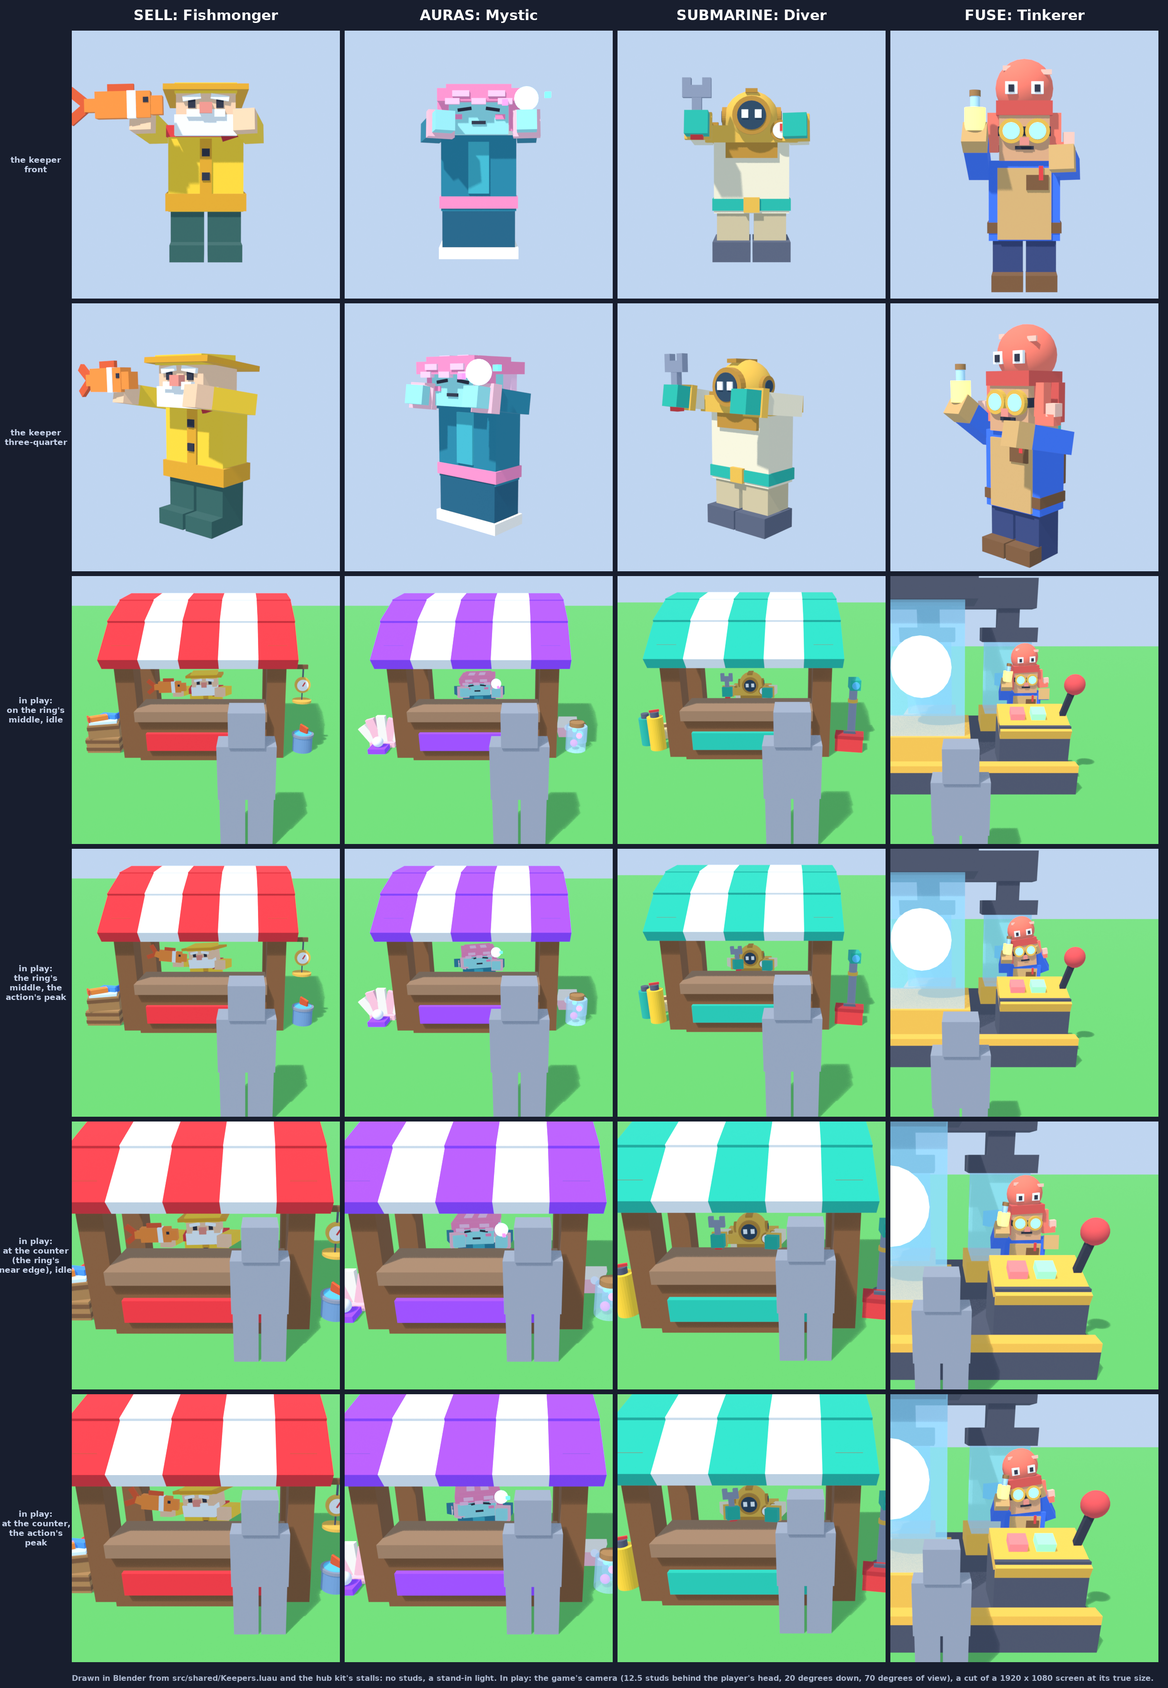
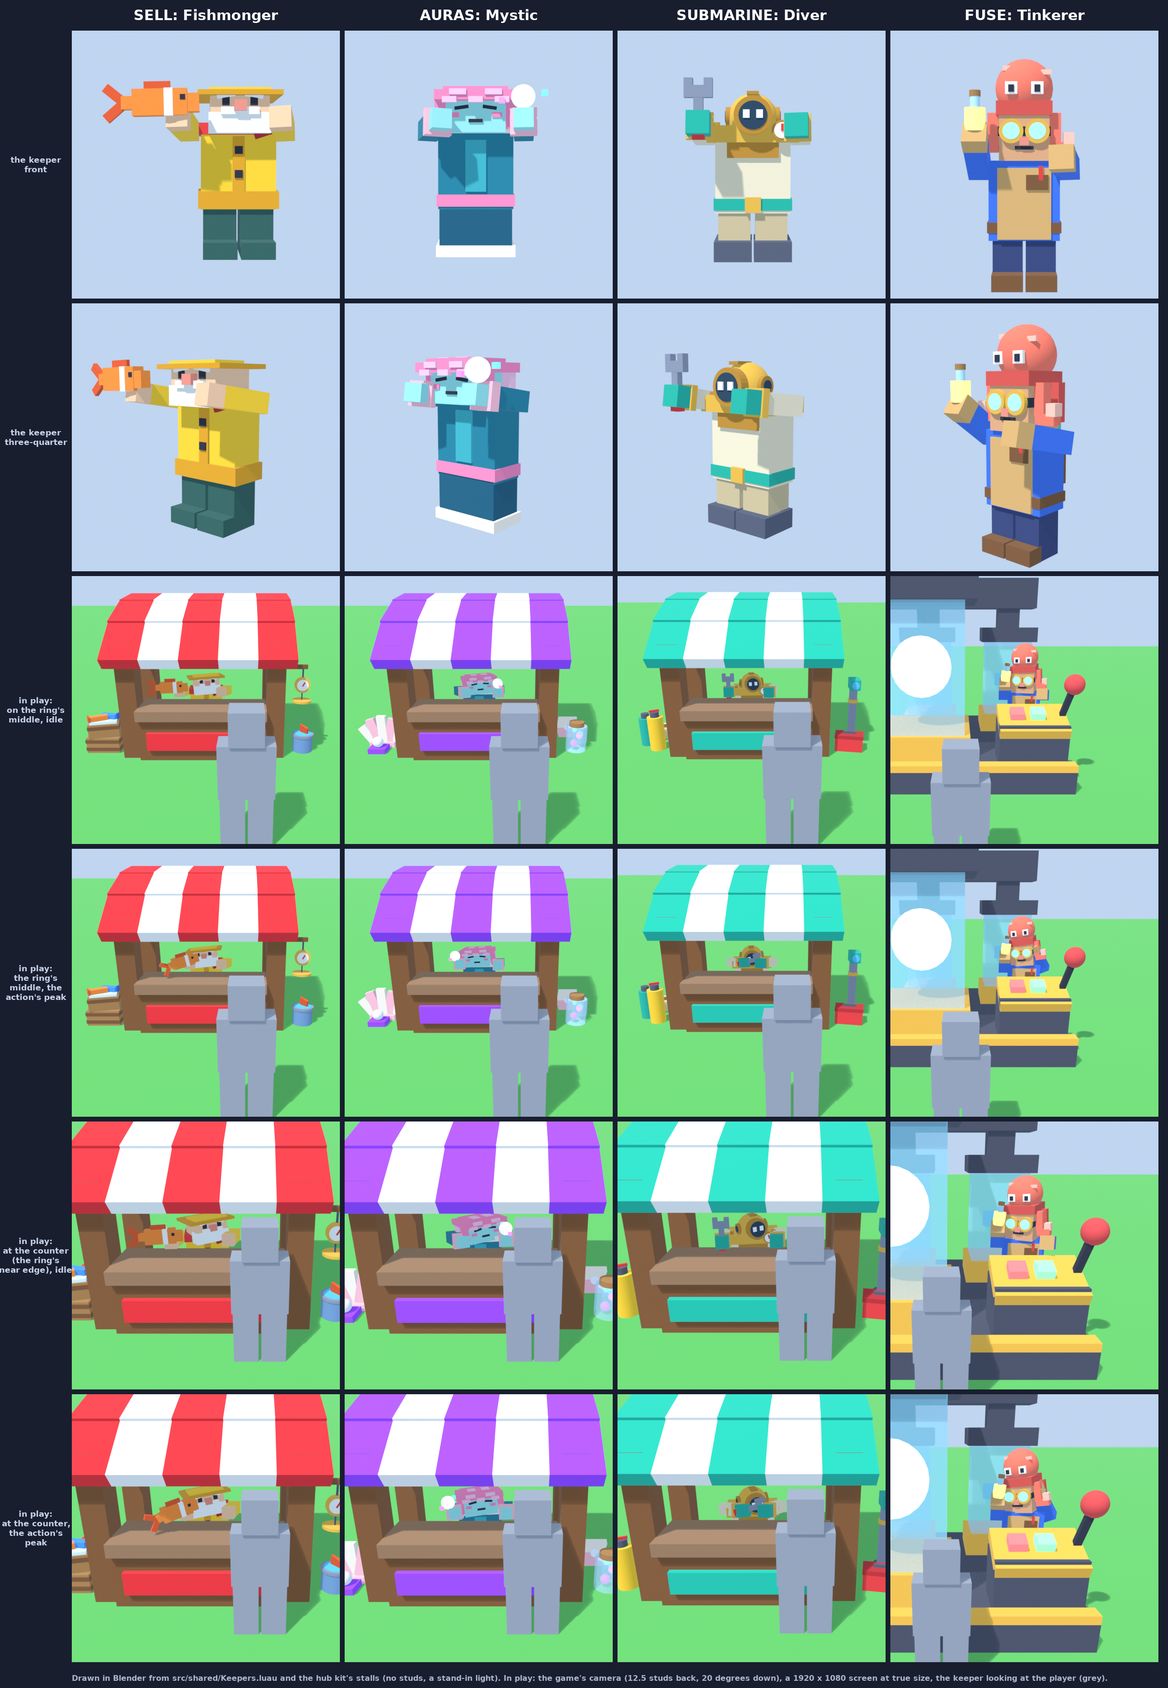
Keepers: sightline held with the keeper looking at the player, actions that show on the screen, flatter hats
- check.py: the sightline is tried with the keeper looking ahead and looking at the player (on the ring's middle
  line and a step to each side), at every key of every action track and half way between; and each action has to
  carry something 30 px or more on a 1920 x 1080 screen from the ring's middle (now 40, 106, 81, 58).
- The actions go sideways and forward instead of up: the fishmonger holds the thrashing catch out over the
  counter, the mystic's pearl floats from one hand to the other and back, the diver slaps the wrench into his palm.
- Hats flatter and the diver's helmet smaller; Look.Up 6 (a hat that tips back goes behind the awning's lip),
  Look.Near 22 / Far 27 (the Fuse ring's far corner was out of reach).
- sheet.py: the in-play rows show the keeper looking at the player and each action at its own peak; the front
  view is centred on the whole keeper so the catch is in the picture.

diff --git a/tools/keepers/check.py b/tools/keepers/check.py
@@ -23,6 +23,7 @@ import keepers as K  # noqa: E402
 
 DEEP = 0.06  # studs two boxes may sink into each other before it counts (a hand on a counter, a jar on a base)
 RING_CLEAR = 1.0  # studs kept free round the ring's edge
+SHOWS = 30  # pixels of a 1920 x 1080 screen an action has to carry something, seen from the ring's middle
 SHIFT = {"Fuse": (-19.4, 0.0, 11.8)}
 
 
@@ -95,7 +96,7 @@ def main():
     look = data["Look"]
     hub = json.load(open(K.HUB))
     hub_in = json.load(open(os.path.join(os.path.dirname(K.HUB), "hub_in.json")))
-    faults, total = [], 0
+    faults, total, seen = [], 0, {}
     for k in data["List"]:
         parts = K.station(k["Station"], hub, SHIFT.get(k["Station"], (0.0, 0.0, 0.0)))
         space, scale = K.stand_space(parts, k["Stand"], look)
@@ -135,32 +136,49 @@ def main():
         for (name, tag), (deep, which) in sorted(worst.items()):
             faults.append(f"{k['Id']}: {which} is {deep:.2f} into the stand's {name} ({tag})")
         # what a player sees: nothing of the head, the hat, the arms or what is held is cut off by the stand (the
-        # awning's lip, a post), at the top of the bob and through the action. From the ring's middle and its far
-        # edge every point of them; from its edge nearest the counter, where the camera looks steepest under the
-        # awning, the half of each part that faces the player. A point the keeper's own parts hide is not counted
+        # awning's lip, a post), at the top of the bob and at every moment of the action worth looking at. The
+        # keeper is tried looking straight ahead (it has not turned yet) and looking at the player whose camera it
+        # is (head turned and tipped up at them: at the counter that is near the most it tips), with the player on
+        # the ring's middle line and a step to each side of it. From the ring's middle and its far edge every point
+        # counts; from its edge nearest the counter, where the camera looks steepest under the awning, the half of
+        # each part that faces the player. A point the keeper's own parts hide is not counted
         if k["Stand"] == "CounterTop":
-            solids = K.solids_of(parts)
+            solids = [s for s in K.solids_of(parts) if s[0] not in ("Counter", "CounterTop")]
             cut = {}
             for where, name in ((0, "the ring's middle"), (1, "the ring's far edge"), (-1, "the ring's near edge")):
-                eye, _at = K.play_camera(space, parts, where)
-                for t in (None, 0.2, 0.3, 0.4, 0.5, 0.6, 0.7, 0.8):
-                    how = {"sway_t": k["Bob"][1] / 4}
-                    if t is not None:
-                        how["action_t"] = t
-                    boxes = K.keeper_boxes(data, k, kspace, scale, **how)
-                    own = [(str(i), b["m"], body(b)[1]) for i, b in enumerate(boxes)]
-                    for i, b in enumerate(boxes):
-                        row = k["Parts"][i]
-                        if row[0] in ("Root", "Body"):
+                for side in (0.0, K.ASIDE, -K.ASIDE):
+                    eye, at = K.play_camera(space, parts, where, side)
+                    yaw, pitch = K.look_at(k, kspace, scale, look, at)
+                    for turned, held in (("looking at the player", {"yaw": yaw, "pitch": pitch}), ("looking ahead", {})):
+                        if not held and side:
                             continue
-                        rest_of = own[:i] + own[i + 1:]
-                        for spot in spots(b, eye, where == -1):
-                            by = K.hidden_by(eye, spot, solids)
-                            if by and by != "Counter" and by != "CounterTop" and not K.hidden_by(eye, spot, rest_of):
-                                cut[(i, name)] = (by, "idle" if t is None else f"action {t:.1f}", row)
+                        for t in [None] + K.action_times(k):
+                            how = dict(held, sway_t=k["Bob"][1] / 4)
+                            if t is not None:
+                                how["action_t"] = t
+                            boxes = K.keeper_boxes(data, k, kspace, scale, **how)
+                            own = [(str(i), b["m"], body(b)[1]) for i, b in enumerate(boxes)]
+                            for i, b in enumerate(boxes):
+                                row = k["Parts"][i]
+                                if row[0] in ("Root", "Body"):
+                                    continue
+                                for spot in spots(b, eye, where == -1):
+                                    by = K.hidden_by(eye, spot, solids)
+                                    if by and not K.hidden_by(eye, spot, own[:i] + own[i + 1:]):
+                                        when = "idle" if t is None else f"action {t:.2f}"
+                                        cut.setdefault((i, name), (by, f"{when}, {turned}, side {side:+.2f}", row))
             for (i, name), (by, when, row) in sorted(cut.items()):
                 faults.append(f"{k['Id']}: part {i + 1} ({row[0]} {row[1]} {row[11]}) is cut off by the stand's {by} "
                               f"from {name} ({when})")
+        # the action has to show: seen from the ring's middle by a player a step to the side, with the keeper looking
+        # at them, it carries something at least SHOWS pixels of a 1920 x 1080 screen, and twice as far as the bob
+        eye, at = K.play_camera(space, parts, 0, K.ASIDE)
+        yaw, pitch = K.look_at(k, kspace, scale, look, at)
+        bob, far, when, joint = K.shows(data, k, kspace, scale, eye, at, yaw=yaw, pitch=pitch)
+        seen[k["Id"]] = f"bob {bob:.0f} px, action {far:.0f} px (the {joint} at {when:.2f})"
+        if far < SHOWS or far < 2 * bob:
+            faults.append(f"{k['Id']}: its action carries nothing further than {far:.0f} px on the screen from the ring's "
+                          f"middle (the bob is {bob:.0f}, at least {max(SHOWS, 2 * bob):.0f} wanted)")
         props = K.prop_boxes(data, k, space, scale)
         rest = K.keeper_boxes(data, k, kspace, scale)
         top = floor
@@ -206,6 +224,9 @@ def main():
         print(f"{k['Id']:<11}{k['Station']:<6} scale {scale:.2f}  feet {lift:.2f} over the floor  keeper {len(k['Parts'])} parts "
               f"({moving} move), top {ktop - floor:.2f}  props {len(k['Props'])}, top {top - floor:.2f}  "
               f"neon {glow}, see-through {see}, lights {lit}, stud pictures {stud}")
+    print("on the screen, from the ring's middle:")
+    for name, line in seen.items():
+        print(f"  {name:<11}{line}")
     print(f"all four: {total} parts")
     for f in faults:
         print("  !", f)

diff --git a/tools/keepers/sheet.py b/tools/keepers/sheet.py
@@ -50,27 +50,6 @@ def shot(scene, name, eye, at, fov, w=SIZE, h=SIZE):
     return {"scene": scene, "eye": eye, "at": at, "fov": fov, "w": w, "h": h, "out": os.path.join(WORK, name + ".png")}
 
 
-SCREEN = (1920, 1080)
-SIDE = 0.42  # how far to one side of the ring's middle line the player stands in the play views (a share of its half)
-PEAK = 0.5  # the moment of the action the play views show
-
-
-def on_screen(eye, at, spot):
-    """where `spot` is on the screen of a camera at `eye` looking at `at`: pixels from its top left"""
-    f = [at[i] - eye[i] for i in range(3)]
-    n = sum(v * v for v in f) ** 0.5
-    f = [v / n for v in f]
-    r = K.cross(f, [0.0, 1.0, 0.0])
-    n = sum(v * v for v in r) ** 0.5
-    r = [v / n for v in r]
-    u = K.cross(r, f)
-    d = [spot[i] - eye[i] for i in range(3)]
-    deep = sum(d[i] * f[i] for i in range(3))
-    focal = SCREEN[1] / 2 / math.tan(math.radians(K.CAMERA["fov"]) / 2)
-    return (SCREEN[0] / 2 + focal * sum(d[i] * r[i] for i in range(3)) / deep,
-            SCREEN[1] / 2 - focal * sum(d[i] * u[i] for i in range(3)) / deep)
-
-
 def player(space, parts, where, side):
     """a plain grey figure where the player stands (two legs, a body, a head: 5 studs), facing the stand"""
     _eye, at = K.play_camera(space, parts, where, side)
@@ -127,21 +106,30 @@ def main():
         scenes[kid + "Stand"] = {"boxes": alone + K.prop_boxes(data, k, space, scale) + K.station_boxes(parts), "ground": GRASS, "floor": floor}
         if not poses:
             tall = max(c[1] for b in alone for c in K.corners(b["m"], b["size"])) - kspace[1][3]
-            back = max(1.0, tall / 5.9)  # a taller keeper is seen from further off, so its hat is in the picture
-            shots.append(shot(kid, kid + "_front", kat([0, tall / 2 + 0.4, 11.5 * back]), kat([0, tall / 2 + 0.2, 0]), 34))
-            shots.append(shot(kid, kid + "_three", kat([7.2 * back, tall / 2 + 1.7, 8.6 * back]), kat([0, tall / 2 + 0.1, 0]), 34))
+            across = [sum((c[i] - kspace[i][3]) * kspace[i][0] for i in range(3)) for b in alone for c in K.corners(b["m"], b["size"])]
+            mid, wide = (max(across) + min(across)) / 2, (max(across) - min(across)) / 2
+            # a taller or a wider keeper is seen from further off, and the view is centred on all of it, so its hat
+            # and what it holds are in the picture
+            back = max(1.0, tall / 5.9, (wide + 0.5) / 3.0)
+            shots.append(shot(kid, kid + "_front", kat([mid, tall / 2 + 0.4, 11.5 * back]), kat([mid, tall / 2 + 0.2, 0]), 34))
+            shots.append(shot(kid, kid + "_three", kat([7.2 * back, tall / 2 + 1.7, 8.6 * back]), kat([mid / 2, tall / 2 + 0.1, 0]), 34))
             # as a player sees it: the play camera itself (keepers.py: CAMERA), a whole 1920 x 1080 screen of which the
             # sheet shows the cut round the keeper at its true size. The player (the grey figure) stands a step to
-            # one side of the ring's middle line, as their own character would otherwise cover the keeper
+            # one side of the ring's middle line, as their own character would otherwise cover the keeper, and the
+            # keeper is looking at them, as it does in play. The action is shown at the moment it carries something
+            # furthest on the screen
             head = K.point(kspace, [0, K.read_pivot(k, "Head")[1] * scale + 0.3, 0.3])
             for where, wtag in ((0, "mid"), (-1, "near")):
-                eye, at = K.play_camera(space, parts, where, SIDE)
-                for how, htag in (({"sway_t": k["Bob"][1] / 4}, "idle"), ({"sway_t": k["Bob"][1] / 4, "action_t": PEAK}, "act")):
+                eye, at = K.play_camera(space, parts, where, K.ASIDE)
+                yaw, pitch = K.look_at(k, kspace, scale, look, at)
+                held = {"yaw": yaw, "pitch": pitch, "sway_t": k["Bob"][1] / 4}
+                peak = K.shows(data, k, kspace, scale, eye, at, yaw=yaw, pitch=pitch)[2]
+                for how, htag in ((held, "idle"), (dict(held, action_t=peak), "act")):
                     name = f"{kid}_{wtag}_{htag}"
                     scenes[name] = {"boxes": K.keeper_boxes(data, k, kspace, scale, **how) + K.prop_boxes(data, k, space, scale)
-                                    + K.station_boxes(parts) + player(space, parts, where, SIDE), "ground": GRASS, "floor": floor}
-                    shots.append(shot(name, name, eye, at, K.CAMERA["fov"], SCREEN[0], SCREEN[1]))
-                    cuts[name] = on_screen(eye, at, head)
+                                    + K.station_boxes(parts) + player(space, parts, where, K.ASIDE), "ground": GRASS, "floor": floor}
+                    shots.append(shot(name, name, eye, at, K.CAMERA["fov"], K.SCREEN[0], K.SCREEN[1]))
+                    cuts[name] = K.on_screen(eye, at, head)
             for r, tag in enumerate(("_front", "_three", "_mid_idle", "_mid_act", "_near_idle", "_near_act")):
                 rows[r].append(kid + tag)
         else:
@@ -157,8 +145,8 @@ def main():
     for name, (px, py) in cuts.items():  # the cut round the keeper, at the screen's own size
         path = os.path.join(WORK, name + ".png")
         screen = Image.open(path)
-        left = min(max(0, int(px - SIZE / 2)), SCREEN[0] - SIZE)
-        top = min(max(0, int(py - SIZE * 0.42)), SCREEN[1] - SIZE)
+        left = min(max(0, int(px - SIZE / 2)), K.SCREEN[0] - SIZE)
+        top = min(max(0, int(py - SIZE * 0.42)), K.SCREEN[1] - SIZE)
         screen.crop((left, top, left + SIZE, top + SIZE)).save(path)
     titles = [NAMES[k["Station"]] + ": " + k["Id"] for k in keepers]
     if poses:
@@ -169,8 +157,8 @@ def main():
                            "in play:\nthe ring's\nmiddle, the\naction's peak", "in play:\nat the counter\n(the ring's\nnear edge), idle",
                            "in play:\nat the counter,\nthe action's\npeak"],
             OUT if not only else os.path.join(WORK, "try.png"),
-            "Drawn in Blender from src/shared/Keepers.luau and the hub kit's stalls: no studs, a stand-in light. In play: the game's camera "
-            "(12.5 studs behind the player's head, 20 degrees down, 70 degrees of view), a cut of a 1920 x 1080 screen at its true size.")
+            "Drawn in Blender from src/shared/Keepers.luau and the hub kit's stalls (no studs, a stand-in light). In play: the game's "
+            "camera (12.5 studs back, 20 degrees down), a 1920 x 1080 screen at true size, the keeper looking at the player (grey).")
 
 
 if __name__ == "__main__":

diff --git a/tools/keepers/keepers.py b/tools/keepers/keepers.py
@@ -313,6 +313,77 @@ def play_camera(space, parts, where, side=0.0):
     return point(space, eye), point(space, at)
 
 
+SCREEN = (1920, 1080)  # the screen the play views are drawn and measured on
+ASIDE = 0.42  # where the player stands in the play views: this share of the ring's half to one side of its middle line
+# (from dead ahead their own character covers the keeper)
+
+
+def on_screen(eye, at, spot):
+    """where `spot` is on the screen of a camera at `eye` looking at `at`: pixels from its top left"""
+    f = [at[i] - eye[i] for i in range(3)]
+    n = sum(v * v for v in f) ** 0.5
+    f = [v / n for v in f]
+    r = cross(f, [0.0, 1.0, 0.0])
+    n = sum(v * v for v in r) ** 0.5
+    r = [v / n for v in r]
+    u = cross(r, f)
+    d = [spot[i] - eye[i] for i in range(3)]
+    deep = sum(d[i] * f[i] for i in range(3))
+    focal = SCREEN[1] / 2 / math.tan(math.radians(CAMERA["fov"]) / 2)
+    return (SCREEN[0] / 2 + focal * sum(d[i] * r[i] for i in range(3)) / deep,
+            SCREEN[1] / 2 - focal * sum(d[i] * u[i] for i in range(3)) / deep)
+
+
+def look_at(keeper, kspace, scale, look, spot):
+    """the look a keeper gives a player whose head is at `spot` (the world), as KeeperController sums it: (yaw, pitch)
+    in degrees, from the head's joint at rest, held to the most a keeper turns. (0, 0) for a player out of
+    Look.Near or round behind it (Look.RearIn)"""
+    d = [spot[i] - kspace[i][3] for i in range(3)]
+    local = [sum(d[i] * kspace[i][a] for i in range(3)) for a in range(3)]
+    neck = read_pivot(keeper, "Head")
+    local = [local[i] - neck[i] * scale for i in range(3)]
+    far = math.sqrt(sum(v * v for v in local))
+    if far > look["Near"] or abs(math.degrees(math.atan2(local[0], local[2]))) > look["RearIn"]:
+        return 0.0, 0.0
+    yaw, pitch = aim(look, local)
+    most = look["Body"] + look["Head"]
+    return max(-most, min(most, yaw)), max(-look["Up"], min(look["Down"], pitch))
+
+
+def action_times(keeper):
+    """the moments of a keeper's action worth looking at: every key of every track, half way between each two, and
+    an even row of them besides"""
+    out = {round(0.1 * i, 3) for i in range(1, 10)}
+    for track in keeper["Action"]["Tracks"]:
+        keys = [0.0] + [key[0] for key in track[1:]] + [1.0]
+        for a, b in zip(keys, keys[1:]):
+            out.add(round(b, 3))
+            out.add(round((a + b) / 2, 3))
+    return sorted(t for t in out if 0 < t < 1)
+
+
+def shows(data, keeper, kspace, scale, eye, at, **how):
+    """how much of a keeper's idle and action a camera sees, in pixels of the 1920 x 1080 screen: (the bob top to
+    bottom, the furthest any corner of a part is carried by the action from where the idle has it, the moment of the
+    action that is, the joint of that part). how: the look it holds meanwhile"""
+    amp_t = keeper["Bob"][1] / 4
+
+    def at_time(**more):
+        boxes = keeper_boxes(data, keeper, kspace, scale, **dict(how, **more))
+        return [[on_screen(eye, at, c) for c in corners(b["m"], b["size"])] for b in boxes]
+
+    up, down = at_time(sway_t=amp_t), at_time(sway_t=3 * amp_t)
+    bob = max(math.dist(a, b) for pa, pb in zip(up, down) for a, b in zip(pa, pb))
+    best = (0.0, None, None)
+    for t in action_times(keeper):
+        now = at_time(sway_t=amp_t, action_t=t)
+        for i, (pa, pb) in enumerate(zip(up, now)):
+            far = max(math.dist(a, b) for a, b in zip(pa, pb))
+            if far > best[0]:
+                best = (far, t, keeper["Parts"][i][0])
+    return bob, best[0], best[1], best[2]
+
+
 def hidden_by(eye, spot, solids):
     """the name of the first of `solids` ([(name, matrix, size)]) that stands between `eye` and `spot`, or None"""
     for name, m, size in solids:

diff --git a/docs/design/hub-models.md b/docs/design/hub-models.md
@@ -313,23 +313,30 @@ pictures are Blender views of the same numbers the game reads.
 
 ![the four keepers: front, three-quarter, and as a player sees them](../attachments/hub-keepers-1.png)
 
-- **Who:** Sell has a fishmonger (low sou'wester, beard, red neckerchief, the catch on his palm; he flaps its tail).
-  Auras has a mystic (a jellyfish bell for a hat, a glowing pearl that lifts and turns). The sub has a diver (brass
-  helmet and collar, a chest gauge, a wrench; he knocks on his helmet). Fuse has a tinkerer (goggles, an octopus on
-  the head, a glowing flask) who stands on the machine's base. Ours, not the reference game's pilot, wizard or cowboy.
+- **Who:** Sell has a fishmonger (sou'wester pulled down to the brows, beard, red neckerchief, the catch on his
+  palm; he holds it out over the counter and it thrashes). Auras has a mystic (a jellyfish bell for a hat, a glowing
+  pearl that floats across from one hand to the other and back). The sub has a diver (brass helmet and collar, a
+  chest gauge, a wrench he slaps twice into his other palm). Fuse has a tinkerer (goggles he pushes up, an octopus
+  on the head, a glowing flask) who stands on the machine's base. Ours, not the reference game's pilot, wizard or
+  cowboy.
 - **What a player can see of a stall keeper is a low window.** The awning's lip hides everything above about 4.5
-  studs over the floor from the play camera (12.5 studs back, 20 degrees down): 4.77 from the ring's far edge, 4.65
-  from its middle, 4.44 at the counter. The counter top is at 2.93. So the three stall keepers are short and their
-  hat, face, held thing and action all sit between 2.95 and 4.45. `tools/keepers/check.py` fails if any of it goes
-  above the sightline, at rest or anywhere in the action. Rows 3 to 6 of the picture are drawn from those cameras.
+  studs over the floor from the play camera (12.5 studs back, 20 degrees down): 4.77 from the ring's far edge, 4.66
+  from its middle, 4.45 at the counter, measured where the keeper stands. The counter top is at 2.93. So the three
+  stall keepers are short, their hats are flat, and hat, face, held thing and action all sit in that window. The
+  actions go sideways and forward, not up. `tools/keepers/check.py` fails if any of it goes behind the stall, with
+  the keeper looking ahead or at the player, at rest and at every key moment of the action; and if an action
+  carries nothing at least 30 pixels across a 1920 x 1080 screen seen from the ring's middle (they measure 40, 106,
+  81 and 58; the bob is 8 to 19). At the counter itself only the half of each part that faces the player is
+  counted: the back of a hat's top is behind the lip from there. Rows 3 to 6 of the picture are those cameras.
 - **How:** `src/shared/Keepers.luau` holds the tables (parts, joints, the bob, the sway, the action, the props) and
   the sums; `src/client/Controllers/KeeperController.luau` builds them on each player's own machine from plain parts
   and moves them. Nothing is in the place, nothing is uploaded, nothing can be bumped, touched or hit by a ray. A
   keeper is placed by measuring its stand as it is in the place (the ring and the counter top, or the Fuse machine's
   core), so a stand moved by hand takes its keeper with it.
-- **The look:** head and upper body turn to the nearest player's head inside 20 studs (kept to 25), eased by a
-  spring, held to 70 degrees to a side (14 the body, 56 the head), 22 up and 16 down; back to the idle when the
-  player leaves or goes round behind.
+- **The look:** head and upper body turn to the nearest player's head inside 22 studs (kept to 27), eased by a
+  spring, held to 70 degrees to a side (14 the body, 56 the head), 6 up and 16 down; back to the idle when the
+  player leaves or goes round behind. The head tips up so little because a hat that tips back goes up behind the
+  awning's lip; the camera looks down on the keeper anyway.
 - **Cost:** 230 plain parts for all four stands (keepers 153, props 77), 139 of them moving. One small light. Draw
   calls are an estimate, not measured: about 15 to 25 with all four in view. Left still past 150 studs from the
   camera, taken out past 420.
